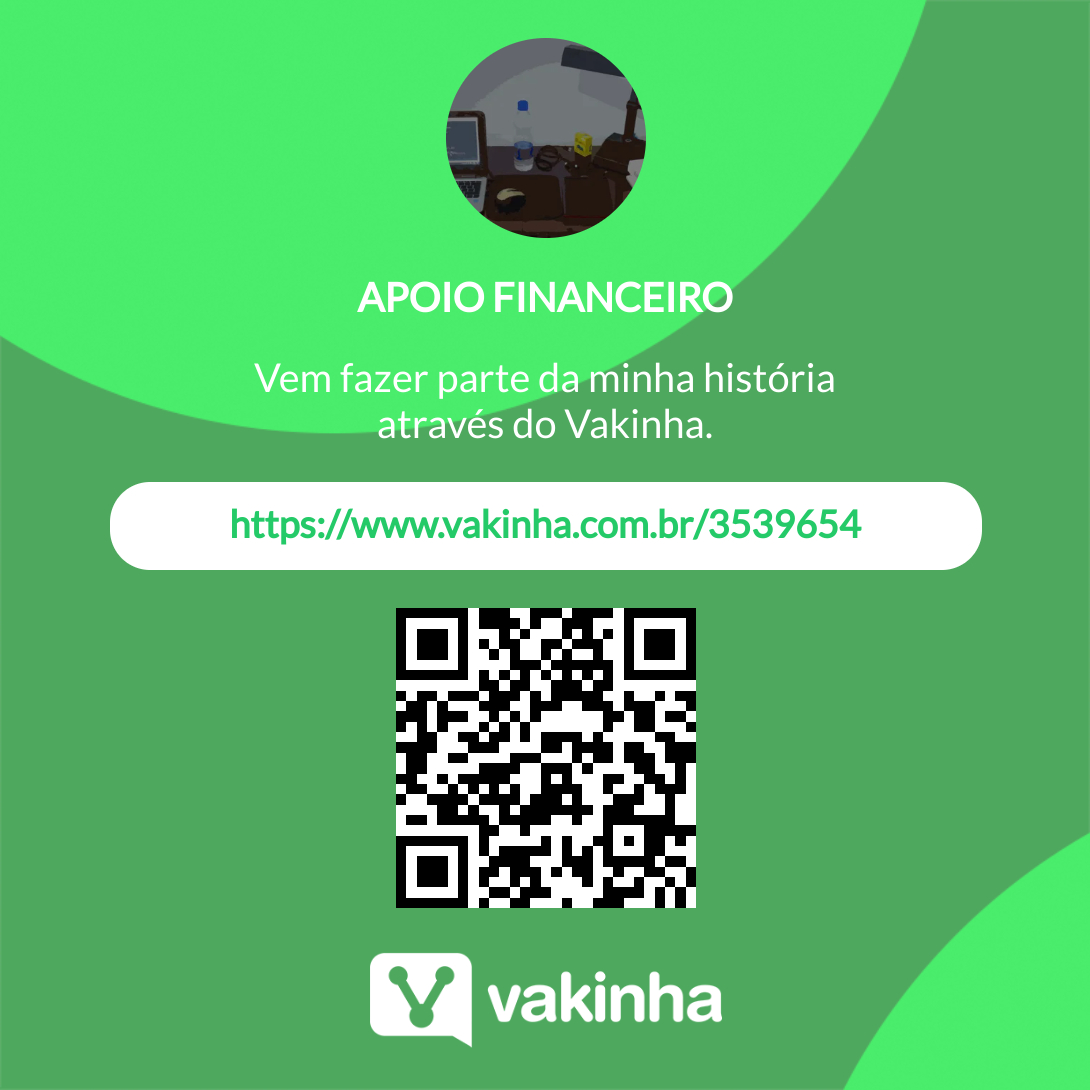
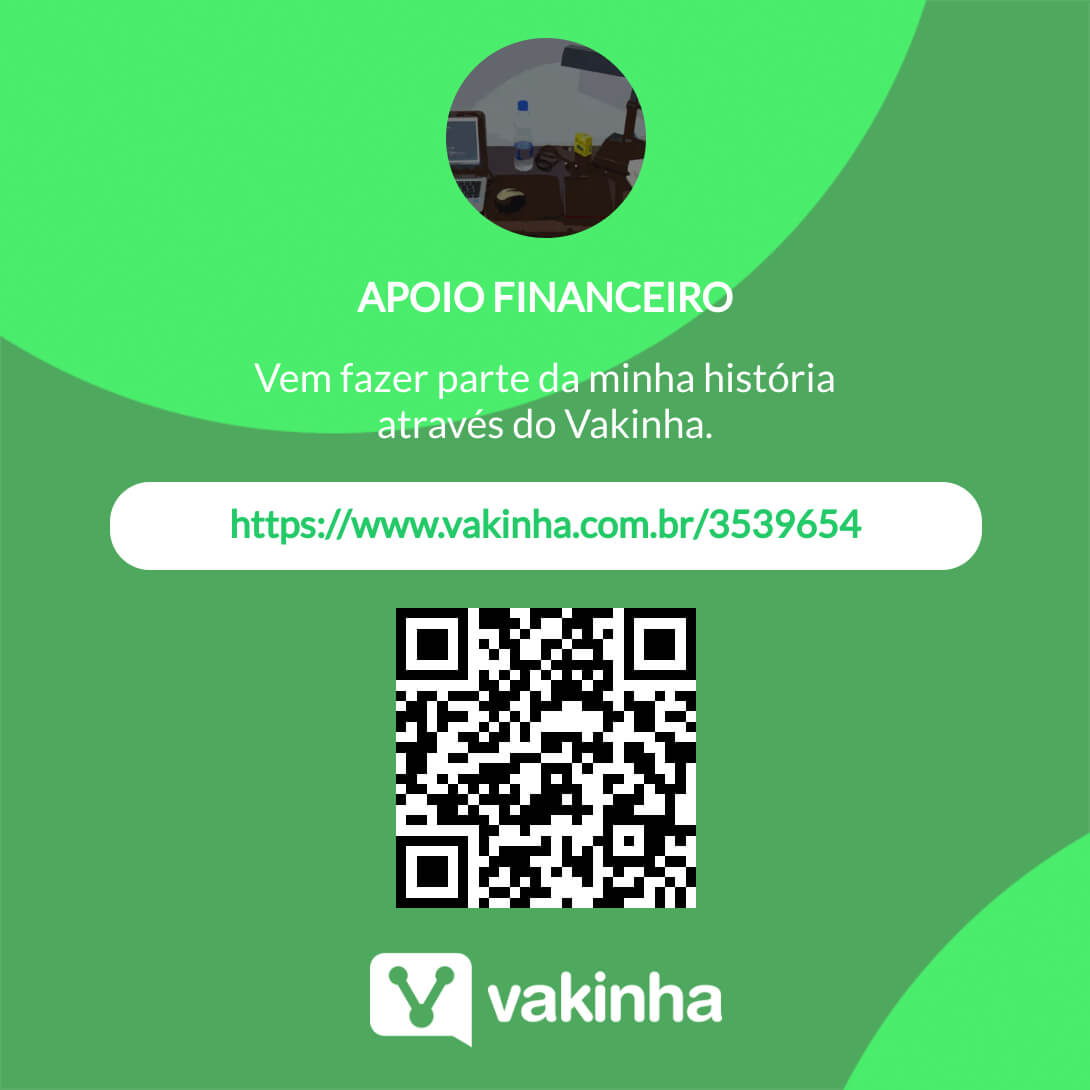
fix(images): compress png

diff --git a/src/components/UI/atoms/CardDescription/styles.ts b/src/components/UI/atoms/CardDescription/styles.ts
@@ -11,18 +11,27 @@ export const Container = styled.p`
   
   height: ${heightBase}px;
   @media ${device.mobileS} {
-    height: ${heightBase-16}px;
+    height: ${heightBase*0.6}px;
   }
   @media ${device.mobileM} {
-    height: ${heightBase-9}px;
+    height: ${heightBase*0.8}px;
   }
   @media ${device.mobileL} {
-    height: ${heightBase+6}px;
+    height: ${heightBase*0.9}px;
+  }
+  @media ${device.tablet} {
+    height: ${heightBase*1.1}px;
   }
   @media ${device.laptop} {
-    height: ${heightBase+12}px;
+    height: ${heightBase*1.2}px;
   }
   @media ${device.laptopL} {
-    height: ${heightBase+25}px;
+    height: ${heightBase*1.5}px;
+  }
+  @media ${device.desktop} {
+    height: ${heightBase*1.55}px;
+  }
+  @media ${device.desktopL} {
+    height: ${heightBase*1.6}px;
   }
 `;

diff --git a/src/__tests__/unit/atoms/CardDescription.test.tsx b/src/__tests__/unit/atoms/CardDescription.test.tsx
@@ -1,0 +1,13 @@
+import { render, screen, cleanup } from '@testing-library/react';
+
+afterEach(cleanup);
+
+test('verify if component receives the `src` prop correctly', () => {
+  const currentDataTestId = "avatar__rtl";
+
+  // render(<Avatar dataTestId={currentDataTestId} src={profile.avatar_url}/>);
+
+  // expect(screen.getByTestId(currentDataTestId)).toBeInTheDocument();
+  // expect(screen.getByTestId(currentDataTestId))
+    // .toHaveStyle(`background-image: url(${profile.avatar_url})`);
+});

diff --git a/src/__tests__/unit/atoms/Button.test.tsx b/src/__tests__/unit/atoms/Button.test.tsx
@@ -37,6 +37,4 @@ test.each([
   expect(button).toBeInTheDocument();
 
   expect(button).toHaveStyle(`background-color: rgba(255, 255, 255, ${expectedOpacity})`);
-
-  cleanup();
 });
